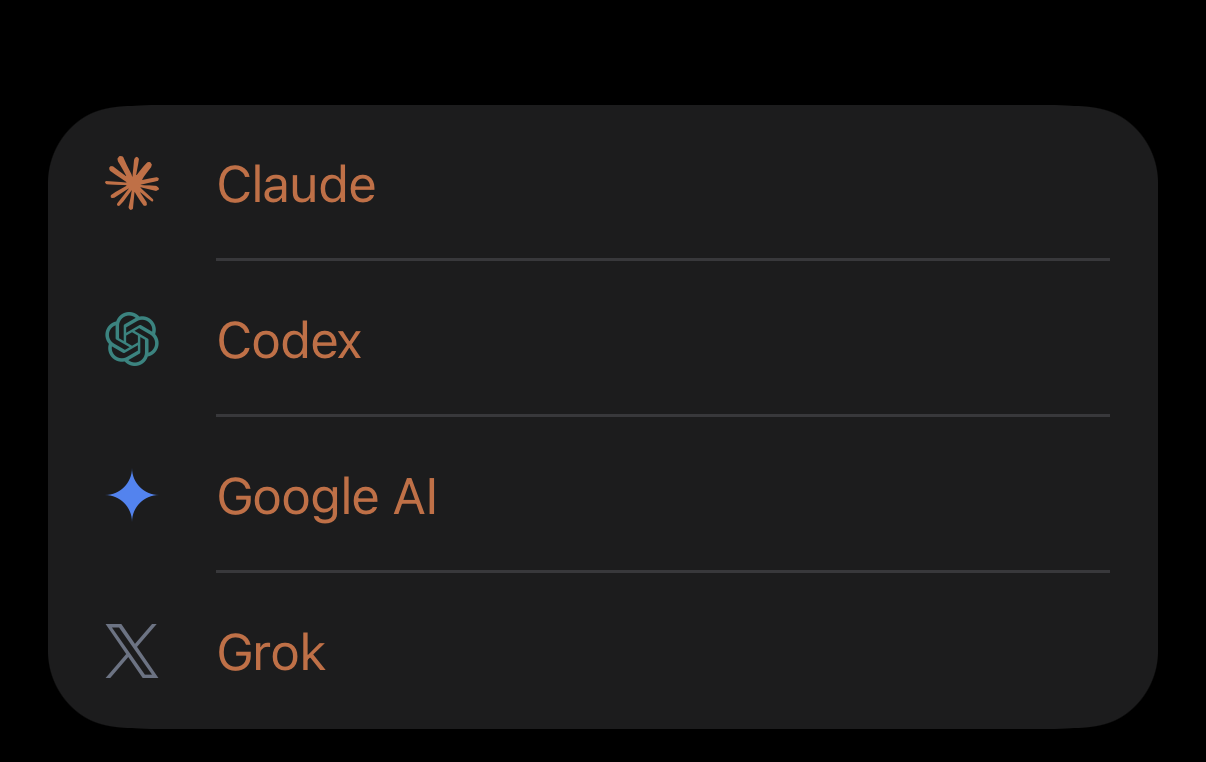
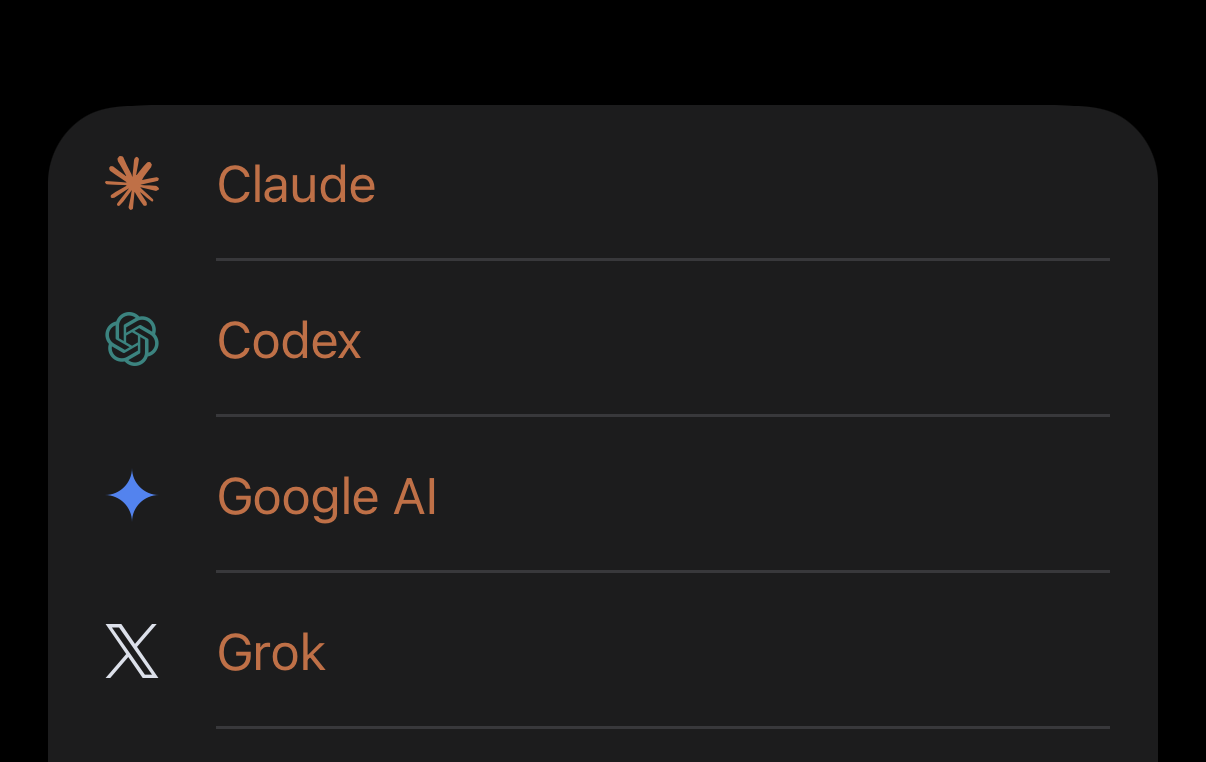
fix(ios): readable ElevenLabs colour and per-provider meter tint

Changed region(s): [[0.0307, 0.8753, 0.9818, 1.0], [0.092, 0.815, 0.1227, 0.9055]]

diff --git a/iOS/Tests/GlassStyleContrastTests.swift b/iOS/Tests/GlassStyleContrastTests.swift
@@ -1,0 +1,76 @@
+import SwiftUI
+import Testing
+import UIKit
+import UsageCore
+@testable import AgentHourglass
+
+/// Provider accents must stay readable on the widget / card backgrounds in both schemes.
+struct GlassStyleContrastTests {
+    private static let kinds: [ProviderKind] = [.claude, .copilot, .codex, .google, .grok, .elevenlabs]
+    /// Midpoints of the `WidgetBackground` Glass gradients (dark 0.20 -> 0.11, light 0.98 -> 0.90).
+    private static let darkBackground = UIColor(white: 0.155, alpha: 1)
+    private static let lightBackground = UIColor(white: 0.94, alpha: 1)
+
+    private func resolved(_ c: Color, _ style: UIUserInterfaceStyle) -> UIColor {
+        UIColor(c).resolvedColor(with: UITraitCollection(userInterfaceStyle: style))
+    }
+
+    private func luminance(_ c: UIColor) -> Double {
+        var r: CGFloat = 0, g: CGFloat = 0, b: CGFloat = 0, a: CGFloat = 0
+        c.getRed(&r, green: &g, blue: &b, alpha: &a)
+        func lin(_ v: CGFloat) -> Double {
+            let v = Double(v)
+            return v <= 0.04045 ? v / 12.92 : pow((v + 0.055) / 1.055, 2.4)
+        }
+        return 0.2126 * lin(r) + 0.7152 * lin(g) + 0.0722 * lin(b)
+    }
+
+    private func contrast(_ a: UIColor, _ b: UIColor) -> Double {
+        let la = luminance(a), lb = luminance(b)
+        return (max(la, lb) + 0.05) / (min(la, lb) + 0.05)
+    }
+
+    @Test(arguments: kinds)
+    func accentReadableOnDarkBackground(_ kind: ProviderKind) {
+        let c = resolved(GlassStyle.accent(kind), .dark)
+        let ratio = contrast(c, Self.darkBackground)
+        #expect(ratio >= 3, "\(kind) accent \(ratio):1 on the dark widget")
+    }
+
+    /// Copilot keeps the system gray (2.7:1 on the light widget); tracked separately from this fix.
+    @Test(arguments: kinds.filter { $0 != .copilot })
+    func accentReadableOnLightBackground(_ kind: ProviderKind) {
+        let c = resolved(GlassStyle.accent(kind), .light)
+        let ratio = contrast(c, Self.lightBackground)
+        #expect(ratio >= 3, "\(kind) accent \(ratio):1 on the light widget")
+    }
+
+    @Test(arguments: kinds)
+    func fillKeepsWhiteGlyphReadable(_ kind: ProviderKind) {
+        for style in [UIUserInterfaceStyle.light, .dark] {
+            let ratio = contrast(resolved(GlassStyle.fill(kind), style), .white)
+            #expect(ratio >= 3, "\(kind) fill \(ratio):1 behind white in \(style == .dark ? "dark" : "light")")
+        }
+    }
+
+    @Test(arguments: kinds)
+    func severityWinsOverProviderAccent(_ kind: ProviderKind) {
+        #expect(GlassStyle.color(.warning, kind) == GlassStyle.warning)
+        #expect(GlassStyle.color(.critical, kind) == GlassStyle.critical)
+    }
+
+    @Test func elevenLabsAndGrokAdaptToScheme() {
+        for kind in [ProviderKind.grok, .elevenlabs] {
+            let dark = luminance(resolved(GlassStyle.accent(kind), .dark))
+            let light = luminance(resolved(GlassStyle.accent(kind), .light))
+            #expect(dark > 0.5 && light < 0.25, "\(kind): dark \(dark), light \(light)")
+        }
+    }
+
+    @MainActor @Test(arguments: kinds)
+    func meterViewUsesAccountKind(_ kind: ProviderKind) {
+        let credits = Meter(kind: .window, label: "Credits", percentUsed: 31.2, windowLength: .seconds(30 * 86_400))
+        let view = MeterView(meter: credits, kind: kind, settings: .default, theme: .glass)
+        #expect(view.kind == kind)
+    }
+}

diff --git a/iOS/App/Theme/GlassStyle.swift b/iOS/App/Theme/GlassStyle.swift
@@ -1,4 +1,5 @@
 import SwiftUI
+import UIKit
 import UsageCore
 
 /// Glass palette. Accent per provider at normal severity; amber / red take over at warning / critical.
@@ -9,6 +10,13 @@ enum GlassStyle {
     /// Deeper teal for filled controls (prominent buttons, done discs): white label 5.2:1, where
     /// `codex` gives 4.48:1. Bars, icons and chips keep `codex`.
     static let codexFill = Color(red: 0.045, green: 0.48, blue: 0.46)
+    /// Grok: Mac slate in light mode; dark mode lifts it to Mac Instrument's dark text slate so the
+    /// bar fill clears the dark card and widget.
+    static let grok = adaptive(light: grokRGB, dark: (0.86, 0.88, 0.92))
+    private static let grokRGB = (0.42, 0.45, 0.52)
+    /// ElevenLabs: Mac near-black graphite in light mode, Mac Instrument's dark text silver in dark mode.
+    static let elevenlabs = adaptive(light: elevenlabsRGB, dark: (0.90, 0.90, 0.92))
+    private static let elevenlabsRGB = (0.30, 0.30, 0.32)
     static let warning = Color(red: 0.86, green: 0.62, blue: 0.10)
     static let critical = Color(red: 0.86, green: 0.25, blue: 0.24)
 
@@ -32,14 +40,28 @@ enum GlassStyle {
         case .copilot: Color.gray
         case .codex: codex
         case .google: Color(red: 0.26, green: 0.52, blue: 0.96)
-        case .grok: Color(red: 0.42, green: 0.45, blue: 0.52)
-        case .elevenlabs: Color(red: 0.30, green: 0.30, blue: 0.32)
+        case .grok: grok
+        case .elevenlabs: elevenlabs
         }
     }
 
-    /// Fill behind a white label or glyph: `codexFill` for Codex, the accent otherwise.
+    /// A colour that follows the environment's colour scheme (app, widget and `ImageRenderer` alike).
+    static func adaptive(light: (Double, Double, Double), dark: (Double, Double, Double)) -> Color {
+        Color(uiColor: UIColor { traits in
+            let c = traits.userInterfaceStyle == .dark ? dark : light
+            return UIColor(red: c.0, green: c.1, blue: c.2, alpha: 1)
+        })
+    }
+
+    /// Fill behind a white label or glyph: `codexFill` for Codex; Grok and ElevenLabs keep their dark
+    /// (light-mode) tone in both schemes, since their dark-mode accent is too light for white; the accent otherwise.
     static func fill(_ kind: ProviderKind) -> Color {
-        kind == .codex ? codexFill : accent(kind)
+        switch kind {
+        case .codex: codexFill
+        case .grok: Color(red: grokRGB.0, green: grokRGB.1, blue: grokRGB.2)
+        case .elevenlabs: Color(red: elevenlabsRGB.0, green: elevenlabsRGB.1, blue: elevenlabsRGB.2)
+        default: accent(kind)
+        }
     }
 
     static func color(_ severity: Meter.Severity, _ kind: ProviderKind) -> Color {

diff --git a/iOS/WidgetTests/RenderMatrixTests.swift b/iOS/WidgetTests/RenderMatrixTests.swift
@@ -62,12 +62,18 @@ final class RenderMatrixTests: XCTestCase {
             ("afterreset", F.entry(F.claudeAfterReset)),
             ("empty", F.entry(nil, account: nil, status: nil)),
             ("codex", F.entry(F.codexPlus, account: F.codexAccount)),
+            ("elevenlabs", F.entry(F.elevenlabsCreator, account: F.elevenlabsAccount)),
         ]
         for family in Family.allCases {
             let mode = family == .small ? smallModes[1] : vibrant
             for (state, entry) in states {
                 cases.append(Case(name: "\(family.rawValue)-glass-\(mode.name)-\(state)", family: family, mode: mode, entry: entry))
             }
+        }
+        let elevenlabs = F.entry(F.elevenlabsCreator, account: F.elevenlabsAccount)
+        cases.append(Case(name: "small-glass-fullcolor-light-elevenlabs", family: .small, mode: smallModes[0], entry: elevenlabs))
+        for mode in smallModes {
+            cases.append(Case(name: "small-instrument-\(mode.name)-elevenlabs", family: .small, mode: mode, entry: F.entry(F.elevenlabsCreator, account: F.elevenlabsAccount, theme: .instrument)))
         }
         var remaining = DisplaySettings.default
         remaining.showRemaining = true
@@ -113,8 +119,8 @@ final class RenderMatrixTests: XCTestCase {
         }
         let dir = URL(fileURLWithPath: out)
         let cases = Self.matrix
-        XCTAssertEqual(cases.count, 37)
-        XCTAssertEqual(Set(cases.map(\.name)).count, 37)
+        XCTAssertEqual(cases.count, 46)
+        XCTAssertEqual(Set(cases.map(\.name)).count, 46)
         for c in cases {
             let url = dir.appendingPathComponent("\(c.name).png")
             try RenderHarness.render(Self.view(c), size: c.family.size, backdrop: c.mode.backdrop, to: url)

diff --git a/iOS/App/Snapshots/MeterSnapshots.swift b/iOS/App/Snapshots/MeterSnapshots.swift
@@ -16,6 +16,7 @@ private struct MeterGallery: View {
 
     private struct Item {
         var meter: Meter
+        var kind: ProviderKind
         var settings: DisplaySettings
     }
 
@@ -50,14 +51,14 @@ private struct MeterGallery: View {
             resetsAt: month
         )
         return [
-            Item(meter: all, settings: h24),
-            Item(meter: all, settings: countdown),
-            Item(meter: all, settings: remaining),
-            Item(meter: eeveeWeekly, settings: h24),
-            Item(meter: codex, settings: h24),
-            Item(meter: session, settings: h24),
-            Item(meter: credits, settings: h24),
-            Item(meter: premium, settings: h24),
+            Item(meter: all, kind: .claude, settings: h24),
+            Item(meter: all, kind: .claude, settings: countdown),
+            Item(meter: all, kind: .claude, settings: remaining),
+            Item(meter: eeveeWeekly, kind: .claude, settings: h24),
+            Item(meter: codex, kind: .codex, settings: h24),
+            Item(meter: session, kind: .claude, settings: h24),
+            Item(meter: credits, kind: .elevenlabs, settings: h24),
+            Item(meter: premium, kind: .copilot, settings: h24),
         ]
     }
 
@@ -67,6 +68,7 @@ private struct MeterGallery: View {
                 if i > 0, theme == .glass { Divider().opacity(0.6) }
                 MeterView(
                     meter: item.meter,
+                    kind: item.kind,
                     settings: item.settings,
                     theme: theme,
                     now: Fixtures.now,

diff --git a/iOS/WidgetTests/Fixtures/WidgetFixtures.swift b/iOS/WidgetTests/Fixtures/WidgetFixtures.swift
@@ -31,12 +31,28 @@ enum WidgetFixtures {
         Meter(kind: .window, label: "Weekly", percentUsed: 72, resetsAt: now.addingTimeInterval(3 * 86400), windowLength: .seconds(604_800)),
     ])
 
+    /// ElevenLabs credits: one 30-day window, 31.2% used, resetting in 6 days.
+    static let elevenlabsCreator = UsageSnapshot(accountID: AccountID(rawValue: "elevenlabs:creator")!, fetchedAt: now, meters: [
+        Meter(
+            kind: .window,
+            label: "Credits",
+            percentUsed: 31.2,
+            used: 40_728,
+            limit: 130_539,
+            unit: "credits",
+            resetsAt: now.addingTimeInterval(6 * 86_400),
+            windowLength: .seconds(30 * 86_400)
+        ),
+    ])
+
     static var allMeters: [Meter] { [claudeMax, codexPlus].flatMap(\.meters) }
 
     // MARK: Render matrix state fixtures
 
     static let claudeAccount = AccountEntry(id: claudeMax.accountID, kind: .claude, displayName: "Claude Max", remoteLogin: nil, order: 0, addedAt: now, status: "ok")
     static let codexAccount = AccountEntry(id: codexPlus.accountID, kind: .codex, displayName: "Codex Plus", remoteLogin: nil, order: 1, addedAt: now, status: "ok")
+
+    static let elevenlabsAccount = AccountEntry(id: elevenlabsCreator.accountID, kind: .elevenlabs, displayName: "ElevenLabs", remoteLogin: nil, order: 2, addedAt: now, status: "ok")
 
     /// Fetched 2 h before `now`.
     static var claudeStale: UsageSnapshot {

diff --git a/iOS/App/Theme/MeterView.swift b/iOS/App/Theme/MeterView.swift
@@ -5,6 +5,8 @@ import UsageCore
 /// Instrument mirrors Mac `InstrumentMeterGrid.meter`.
 struct MeterView: View {
     var meter: Meter
+    /// The account's provider: picks the bar and percent colour (window meters span Codex, Grok, Google, ElevenLabs).
+    var kind: ProviderKind
     var settings: DisplaySettings
     var theme: Theme
     var now: Date = Date()
@@ -15,6 +17,7 @@ struct MeterView: View {
 
     init(
         meter: Meter,
+        kind: ProviderKind,
         settings: DisplaySettings,
         theme: Theme,
         now: Date = Date(),
@@ -22,19 +25,12 @@ struct MeterView: View {
         onToggleReset: (() -> Void)? = nil
     ) {
         self.meter = meter
+        self.kind = kind
         self.settings = settings
         self.theme = theme
         self.now = now
         self.calendar = calendar
         self.onToggleReset = onToggleReset
-    }
-
-    private var kind: ProviderKind {
-        switch meter.kind {
-        case .copilotPremium, .copilotChat, .copilotCompletions: .copilot
-        case .window: .codex
-        default: .claude
-        }
     }
 
     private var display: MeterDisplay {

diff --git a/iOS/App/Theme/Instrument/InstrumentMeterGrid.swift b/iOS/App/Theme/Instrument/InstrumentMeterGrid.swift
@@ -27,7 +27,15 @@ struct InstrumentMeterGrid: View {
             if let hero { heroView(hero) }
             VStack(alignment: .leading, spacing: 0) {
                 ForEach(Array(meters.enumerated()), id: \.offset) { _, m in
-                    MeterView(meter: m, settings: settings, theme: .instrument, now: now, calendar: calendar, onToggleReset: onToggleReset)
+                    MeterView(
+                        meter: m,
+                        kind: kind,
+                        settings: settings,
+                        theme: .instrument,
+                        now: now,
+                        calendar: calendar,
+                        onToggleReset: onToggleReset
+                    )
                 }
                 if let spend { spendRow(spend) }
                 if let ageText {

diff --git a/iOS/App/Theme/Glass/GlassAccountCard.swift b/iOS/App/Theme/Glass/GlassAccountCard.swift
@@ -67,6 +67,7 @@ struct GlassAccountCard: View {
                         GlassDivider()
                         MeterView(
                             meter: meter,
+                            kind: kind,
                             settings: settings,
                             theme: .glass,
                             now: now,
@@ -156,7 +157,7 @@ struct GlassAccountCard: View {
 
     private var glyph: some View {
         RoundedRectangle(cornerRadius: 5, style: .continuous)
-            .fill(accent.gradient)
+            .fill(GlassStyle.fill(kind).gradient)
             .frame(width: 20, height: 20)
             .overlay(ProviderIcon(kind: kind, size: 12).foregroundStyle(.white))
     }
